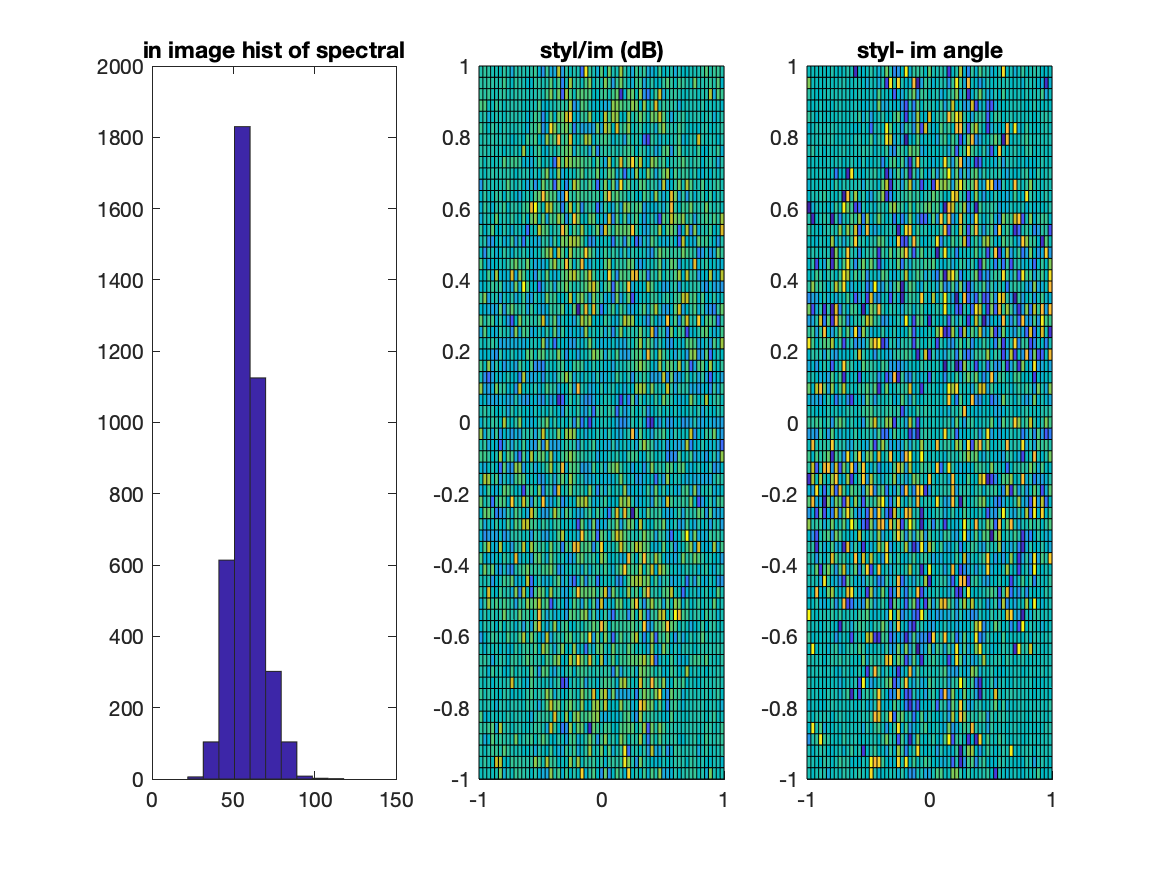
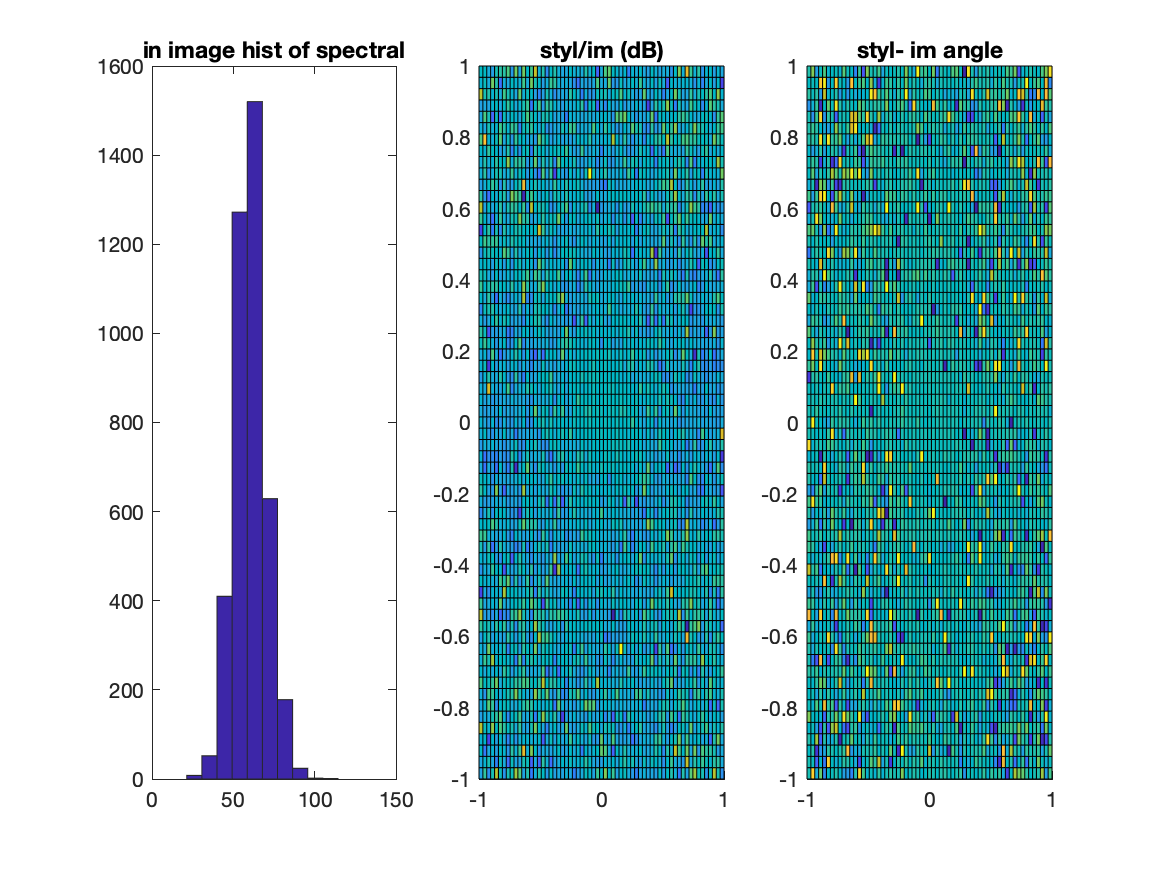
cross comparing script, generated at result/

diff --git a/src/funcfft.m b/src/funcfft.m
@@ -2,17 +2,19 @@ function [filter, org] = funcfft(img_path, styled_path, disp)
 load('bpfil_5_7.mat');
 impl = 10*h;
 img = imread(img_path);
+img = imresize(img, [64 64]);
 styled = imread(styled_path);
-
+styled = imresize(styled, [64 64]);
 chan = img(:,:,1);
 sty_chan = styled(:,:,1);
+sty_chan = imresize(sty_chan, [64 64]);
 % chan_test = test(:,:,1);
-% A = fftshift(fft2(chan, 64, 64));
-% B = fftshift(fft2(sty_chan, 64, 64));
-N1 = size(chan, 1); N2 = size(chan, 2); L1 = size(impl, 1); L2 = size(impl, 2);
-H = fftshift(fft2(impl, N1+L1-1, N2+L2-1));
-A = fftshift(fft2(chan, N1+L1-1, N2+L2-1));
-B = fftshift(fft2(sty_chan, N1+L1-1, N2+L2-1));
+A = fftshift(fft2(chan, 64, 64));
+B = fftshift(fft2(sty_chan, 64, 64));
+% N1 = size(chan, 1); N2 = size(chan, 2); L1 = size(impl, 1); L2 = size(impl, 2);
+% H = fftshift(fft2(impl, N1+L1-1, N2+L2-1));
+% A = fftshift(fft2(chan, N1+L1-1, N2+L2-1));
+% B = fftshift(fft2(sty_chan, N1+L1-1, N2+L2-1));
 % N1+L1-1
 % ang = angle(B(:,:,1))-angle(A(:,:,1));
 % tmp = B./A;
@@ -28,36 +30,37 @@ N = size(B,1);
 % 
 
 org = abs(A(:,:,1));
-% filter = abs(B(:,:,1)./A(:,:,1));
-filter = (B(:,:,1)./A(:,:,1));
+filter = abs(B(:,:,1)./A(:,:,1));
+% org = abs(B(:,:,1)./A(:,:,1));
+% filter = (angle(B(:,:,1)) - angle(A(:,:,1)))*180/pi;
 tmp = 20*log10(abs(B(:,:,1)./A(:,:,1)));
-tmp = 20*log10(abs(A.*H));
+% tmp = 20*log10(abs(A.*H));
 % tmp = 20*log10(abs(B(:,:,1)));
 % ---------- downsample -------------
-FT = A.*H;
+% FT = A.*H;
 % ft_re = ifft2(ifftshift(FT));
 % ft_re = ft_re(1:8:size(ft_re,1), 1:8:size(ft_re,2));
 % tmp_decimated = 20*log10(abs(fftshift(fft2(ft_re))));
-dec = FT(1:8:size(FT,1), 1:8:size(FT,2));
-M_tm = size(dec,2);
-N_tm = size(dec,1); 
-[tmx tmy] = meshgrid(linspace(-M_tm/2, M_tm/2, M_tm), linspace(-N_tm/2, N_tm/2, N_tm));
+% dec = FT(1:8:size(FT,1), 1:8:size(FT,2));
+% M_tm = size(dec,2);
+% N_tm = size(dec,1); 
+% [tmx tmy] = meshgrid(linspace(-M_tm/2, M_tm/2, M_tm), linspace(-N_tm/2, N_tm/2, N_tm));
 % ----------------------------
 if(disp == 1) 
 %     f = figure('visible', 'off');
     
     
-%     figure('NumberTitle', 'off', 'Name', sprintf('analysis %s ',img_path));
-    figure;
+    figure('NumberTitle', 'off', 'Name', sprintf('analysis %s ',img_path));
+%     figure;
     subplot(1,3,2);
-%     surf(x*2/M, y*2/N, tmp);
-    surf(tmx*2/M_tm, tmy*2/N_tm, 20*log10(abs(dec)));
+    surf(x*2/M, y*2/N, tmp);
+%     surf(tmx*2/M_tm, tmy*2/N_tm, 20*log10(abs(dec)));
 %     hold on;
 %     surf(tmx*2/M_tm, tmy*2/N_tm, 20*log10(abs(A(1:8:size(A,1), 1:8:size(A,2)))));
 %     surf(x*2/M, y*2/N, 20*log10(abs(A)));
     view(2);
     title('styl/im (dB)');
-%     rotate3d on;
+    rotate3d on;
 %     figure;
 
 %     tmp = 20*log10(abs(B(:,:,1)-A(:,:,1)));
@@ -71,11 +74,11 @@ if(disp == 1)
 
     ang = angle(B(:,:,1))-angle(A(:,:,1));
     subplot(1,3,3);
-%     surf(x*2/M, y*2/N, 180*ang/pi);
-    surf(tmx*2/M_tm, tmy*2/N_tm, (180/pi*angle(dec)));
+    surf(x*2/M, y*2/N, 180*ang/pi);
+%     surf(tmx*2/M_tm, tmy*2/N_tm, (180/pi*angle(dec)));
     view(2);
     title('styl- im angle');
-%     rotate3d on;
+    rotate3d on;
 %     saveas(gcf, sprintf('../plt/fft_%s.png', img_path(8:length(img_path)-4)));
 %     close;
 end

diff --git a/src/batch_funcfft.m b/src/batch_funcfft.m
@@ -42,24 +42,27 @@ for i = 1:length(arr)
         disp("fail");
         continue
     end
-    [F imgX] = funcfft(fil, styl, 1);
-%     filters = [filters; F(:)'];
-%     imgs = [imgs; imgX(:)'];
-    break;
+    [F imgX] = funcfft(fil, styl, 0);
+    filters = [filters; F(:)'];
+    imgs = [imgs; imgX(:)'];
+%     break;
 end
-
-% for t = 1:12
-%     idx = randi(4096);
-%     tx = imgs(:, idx);
-%     ty = filters(:, idx);
-%     sss = std(ty);
-%     tx = (tx-mean(tx))/std(tx);
-%     ty = (ty-mean(ty))/std(ty);
-%     subplot(4,3,t);
-%     scatter(tx, ty);
-%     [ft, gof, output] = fit(tx, ty, 'exp2');
-%     
-% %     hold on;
-%     plot(ft, tx, ty);
-%     title(sprintf("%f | %f", gof.rsquare, sss));
-% end
+figure('NumberTitle', 'off', 'Name', 'amplitude');
+for t = 1:12
+    idx = randi(4096);
+    tx = imgs(:, idx);
+    ty = filters(:, idx);
+    idx = (abs(ty - mean(ty)) < 2*std(ty));
+    ty = ty(idx);
+    tx = tx(idx);
+    sss = std(ty);
+    tx = (tx-mean(tx))/std(tx);
+    ty = (ty-mean(ty))/std(ty);
+    subplot(4,3,t);
+    scatter(tx, ty);
+    [ft, gof, output] = fit(tx, ty, 'poly1');
+    
+    hold on;
+    plot(ft, tx, ty);
+    title(sprintf("%f | %f | %d", gof.rsquare, sss, sum(idx(:))));
+end
